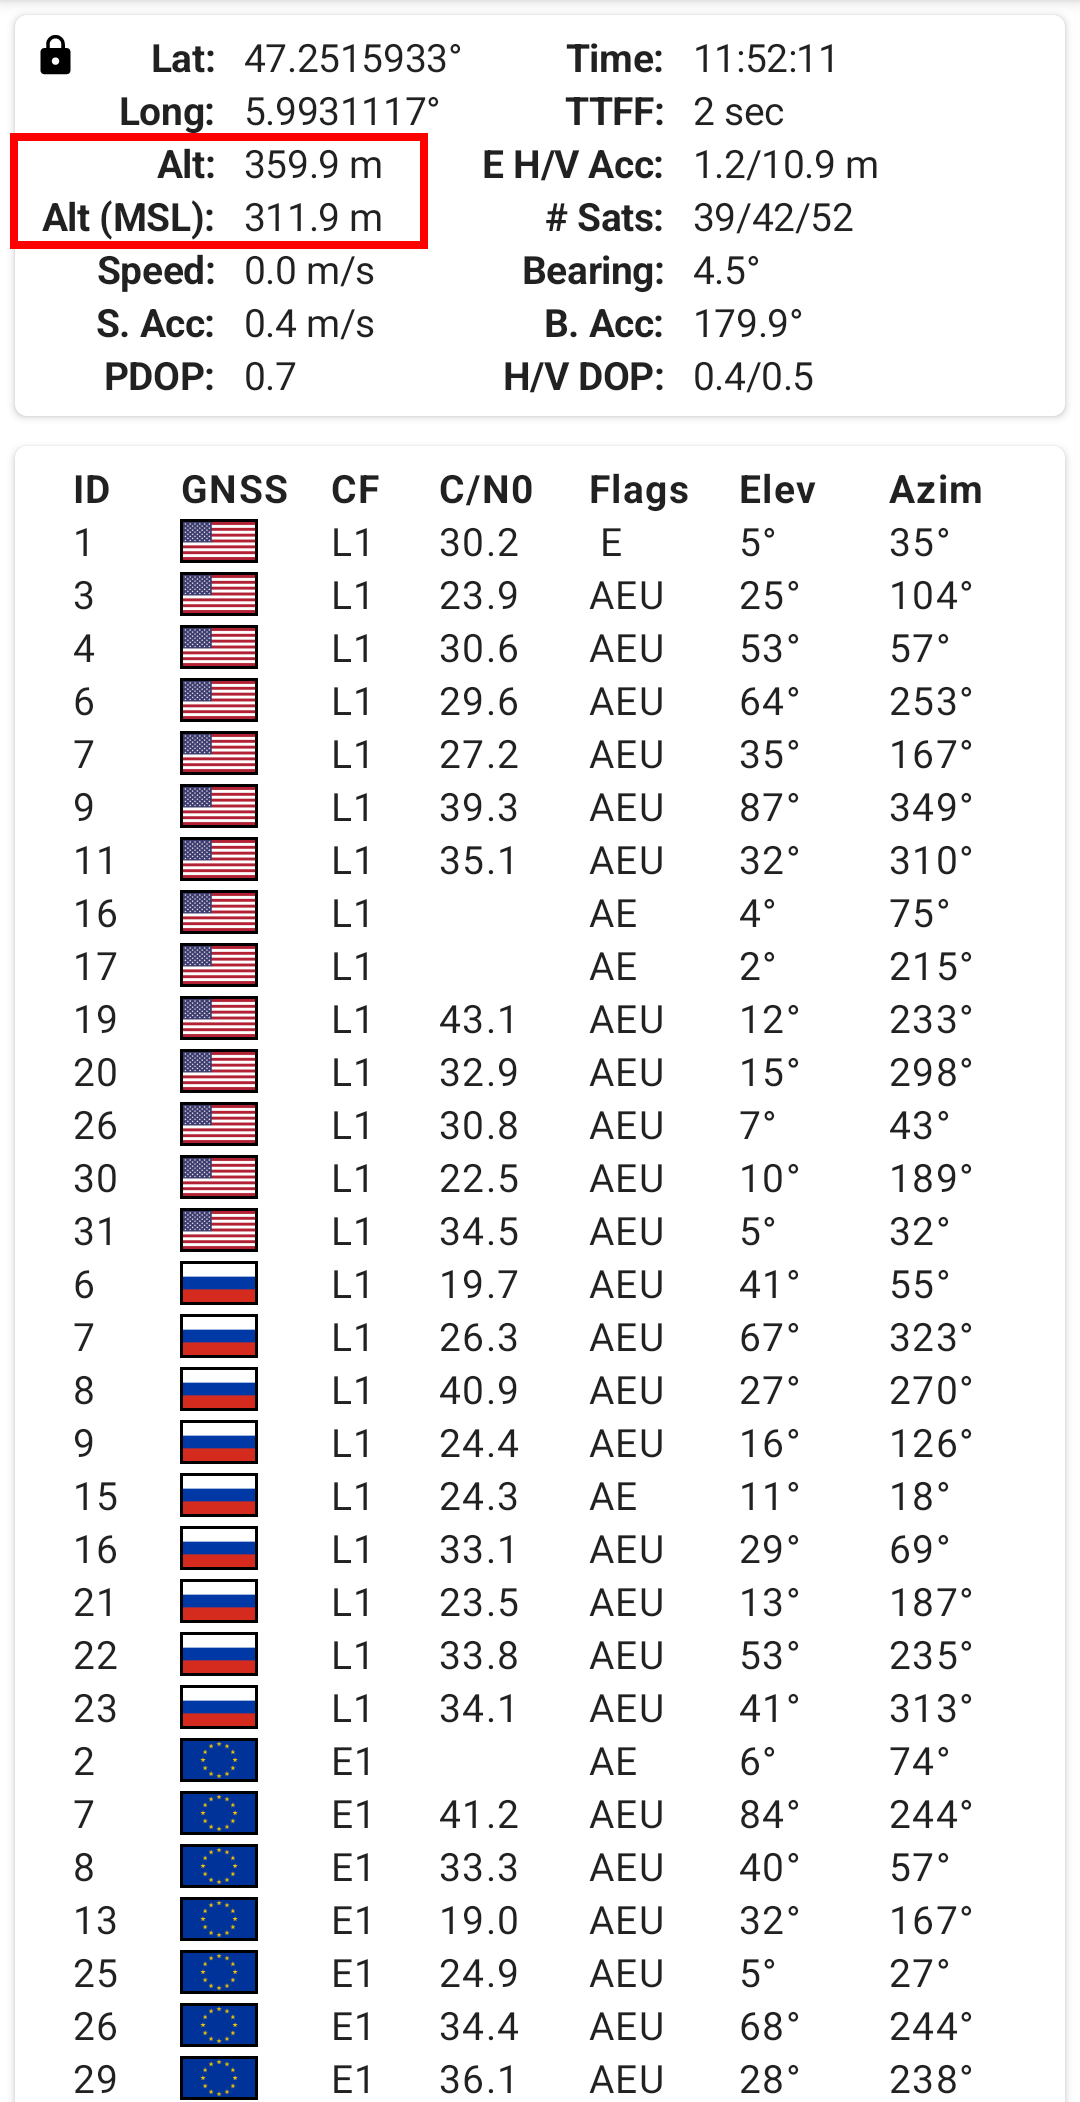
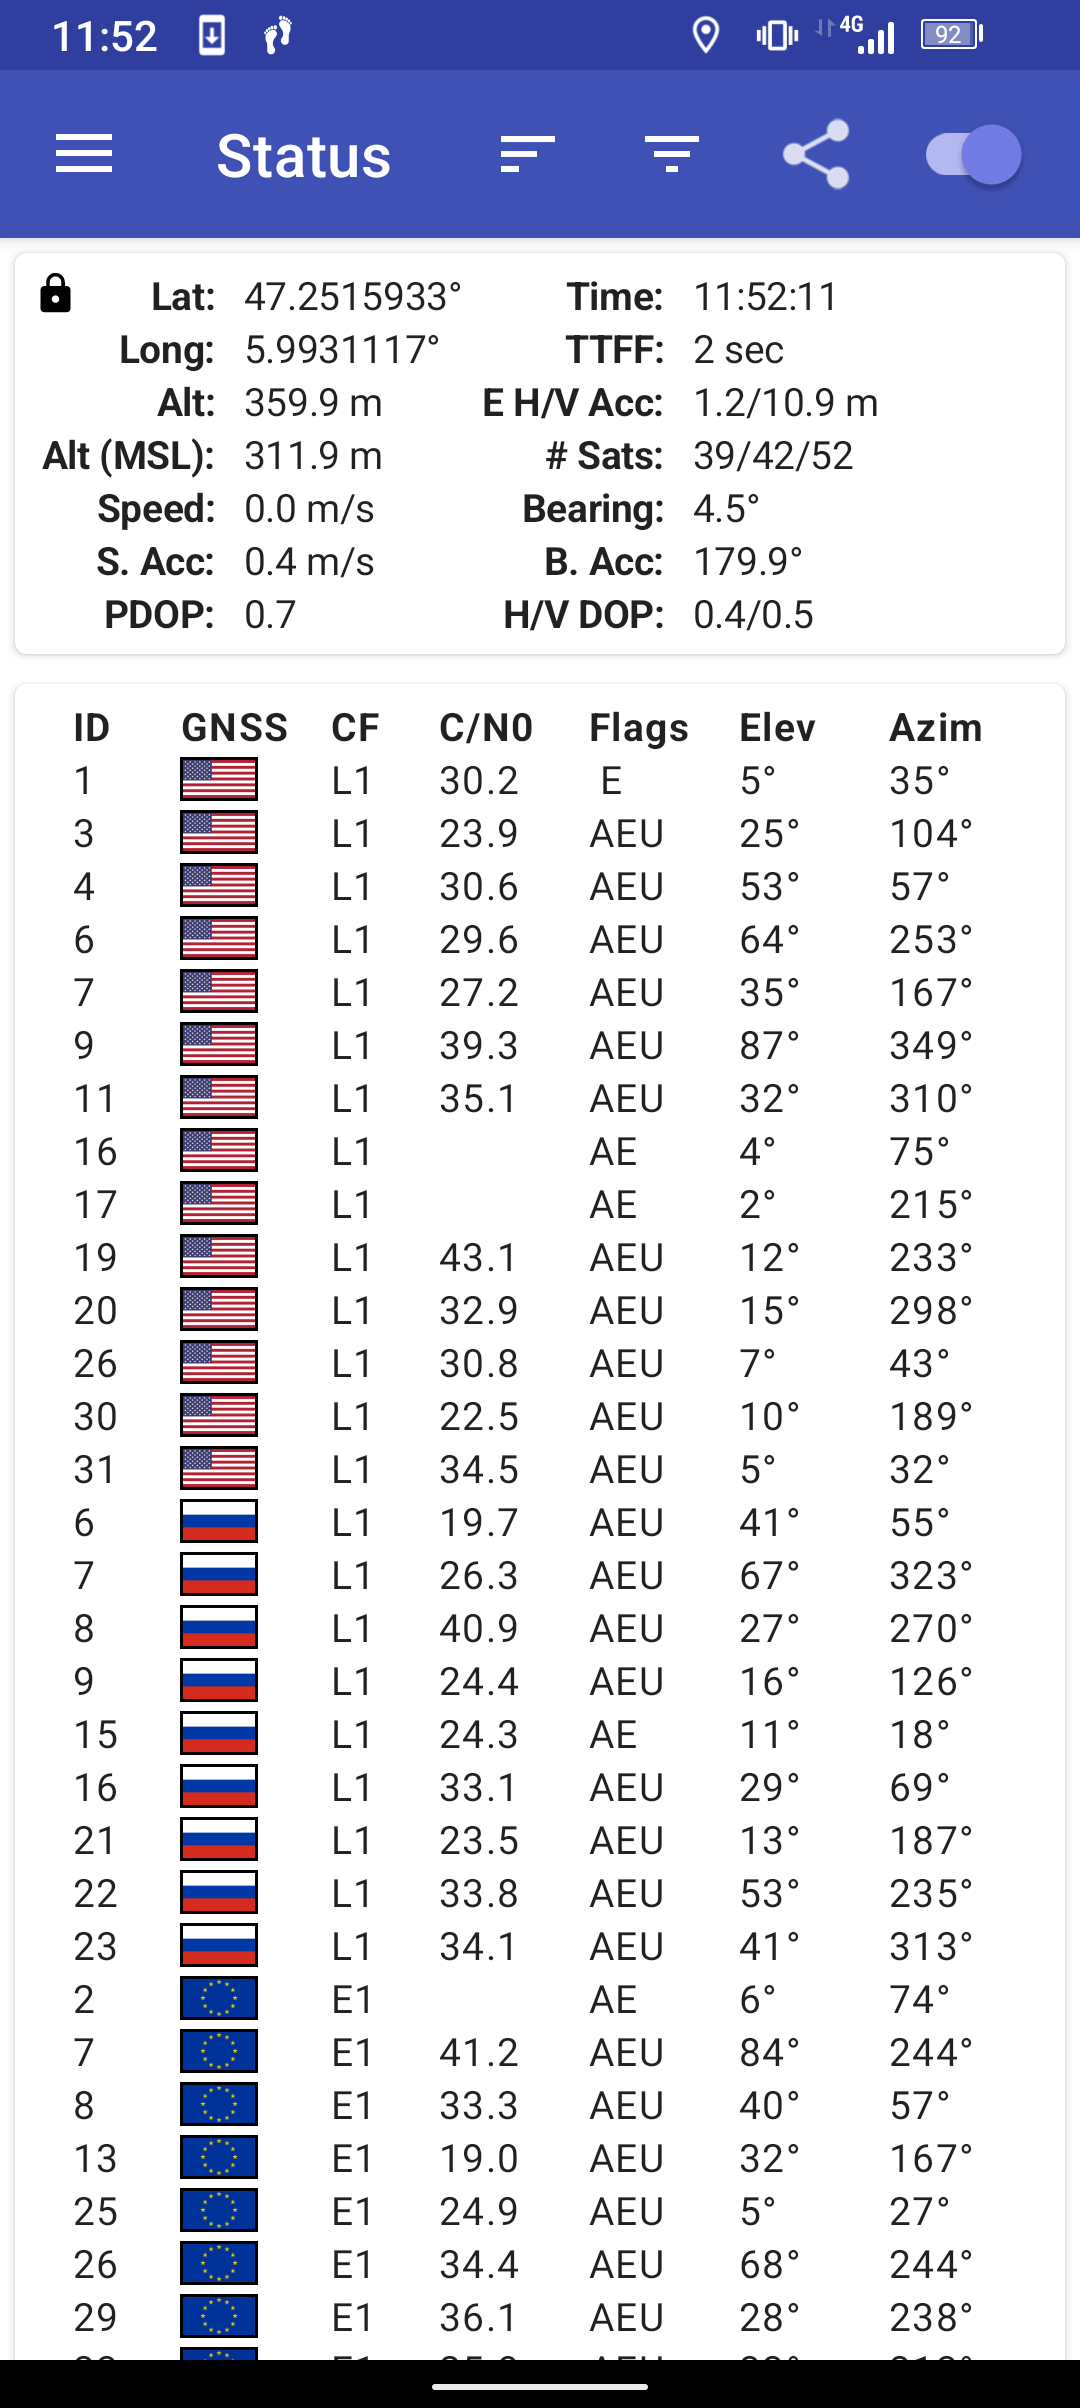
repeat GPS spoofing detection with dual MAX2771 board

Changed region(s): [[0.0, 0.0, 1.0, 1.0]]

diff --git a/CRPA/241005/genuine/README.md b/CRPA/241005/genuine/README.md
@@ -7,3 +7,13 @@ direction of arrivals lead to a wide distribution of phases on the detected sign
 by codeless decoding of the BPSK modulated signal (GPS L1 C/A)
 
 <img src="crpa.svg">
+
+The PocketSDR analaysis matches nicely the information provided by the GNSS receiver on a mobile
+phone running the Android GPRTest software:
+
+<img src="2024-10-05-152952_2704x1050_scrot.png" width=800>
+
+```
+python3 ./python/pocket_acq.py ch1.bin -f 8 -fi 2 -sig L1CA -prn 1-32 -f 20000
+```
+
